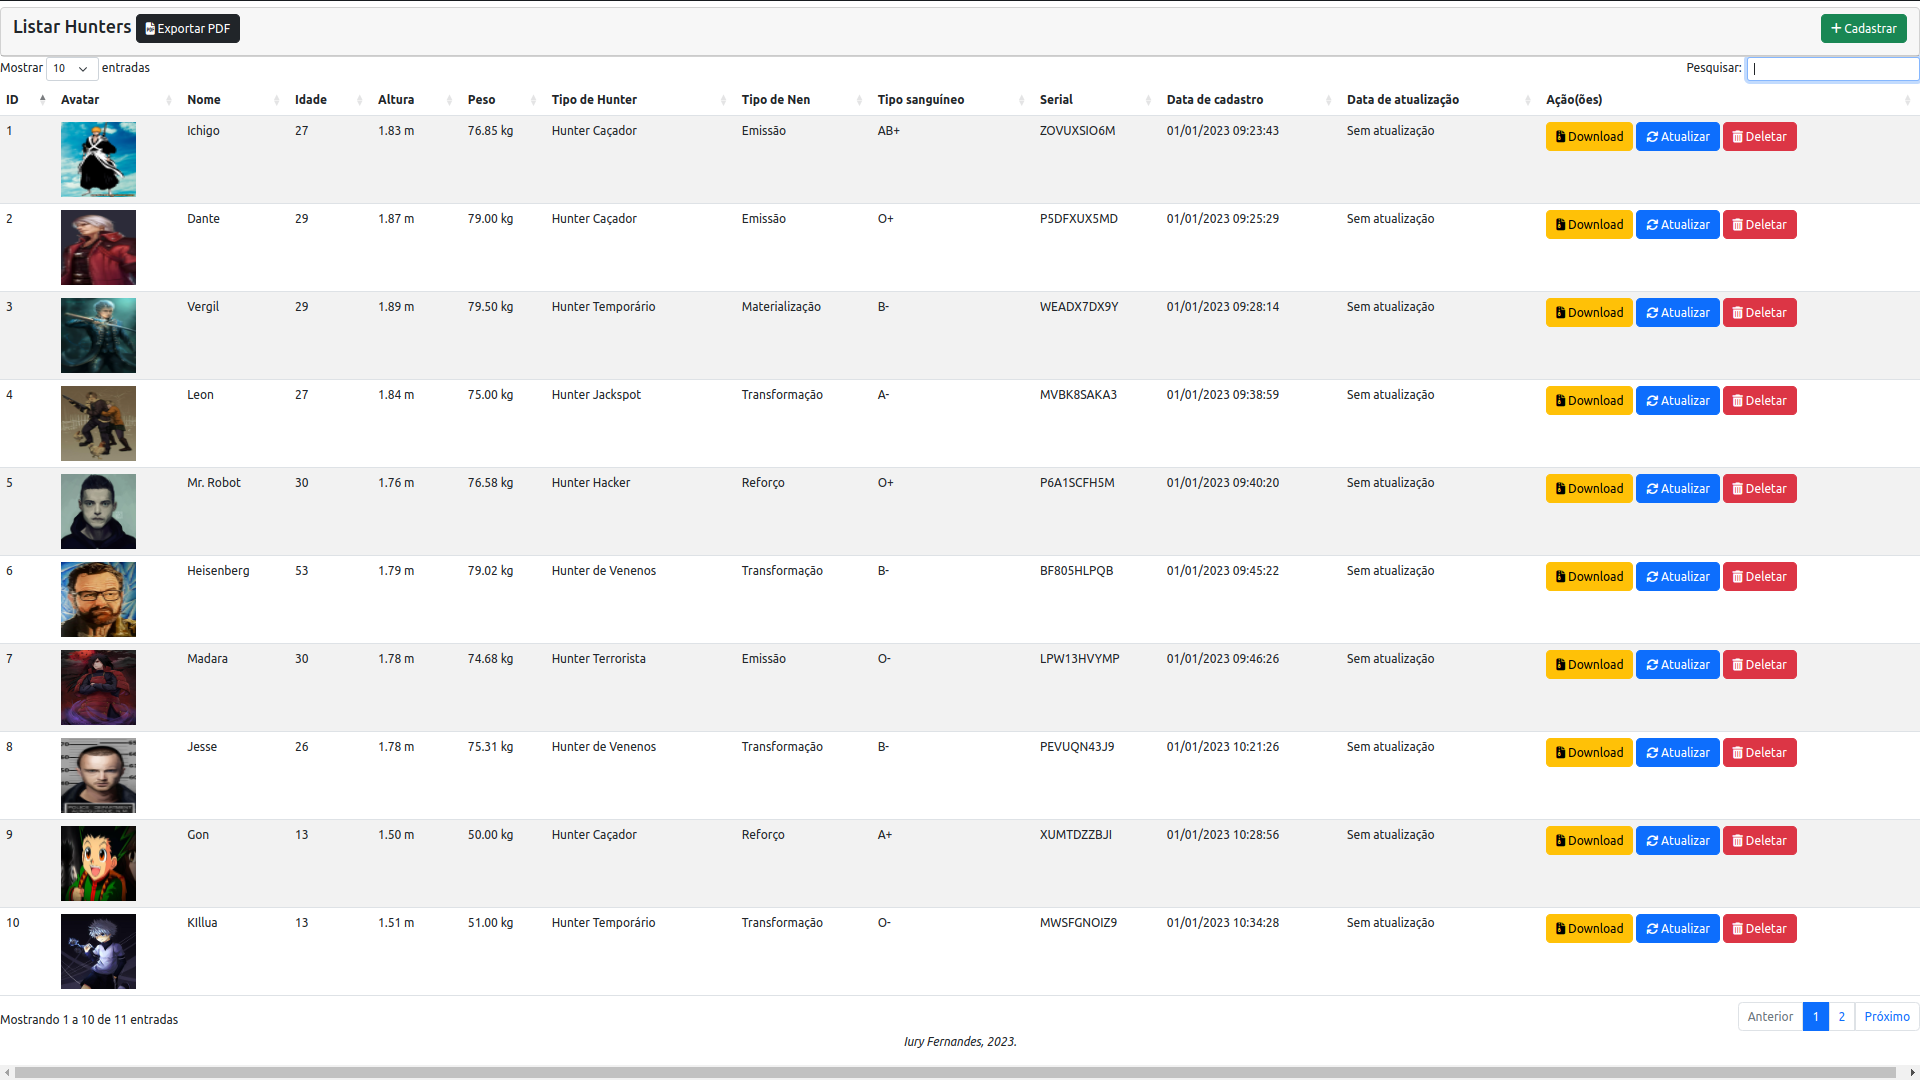
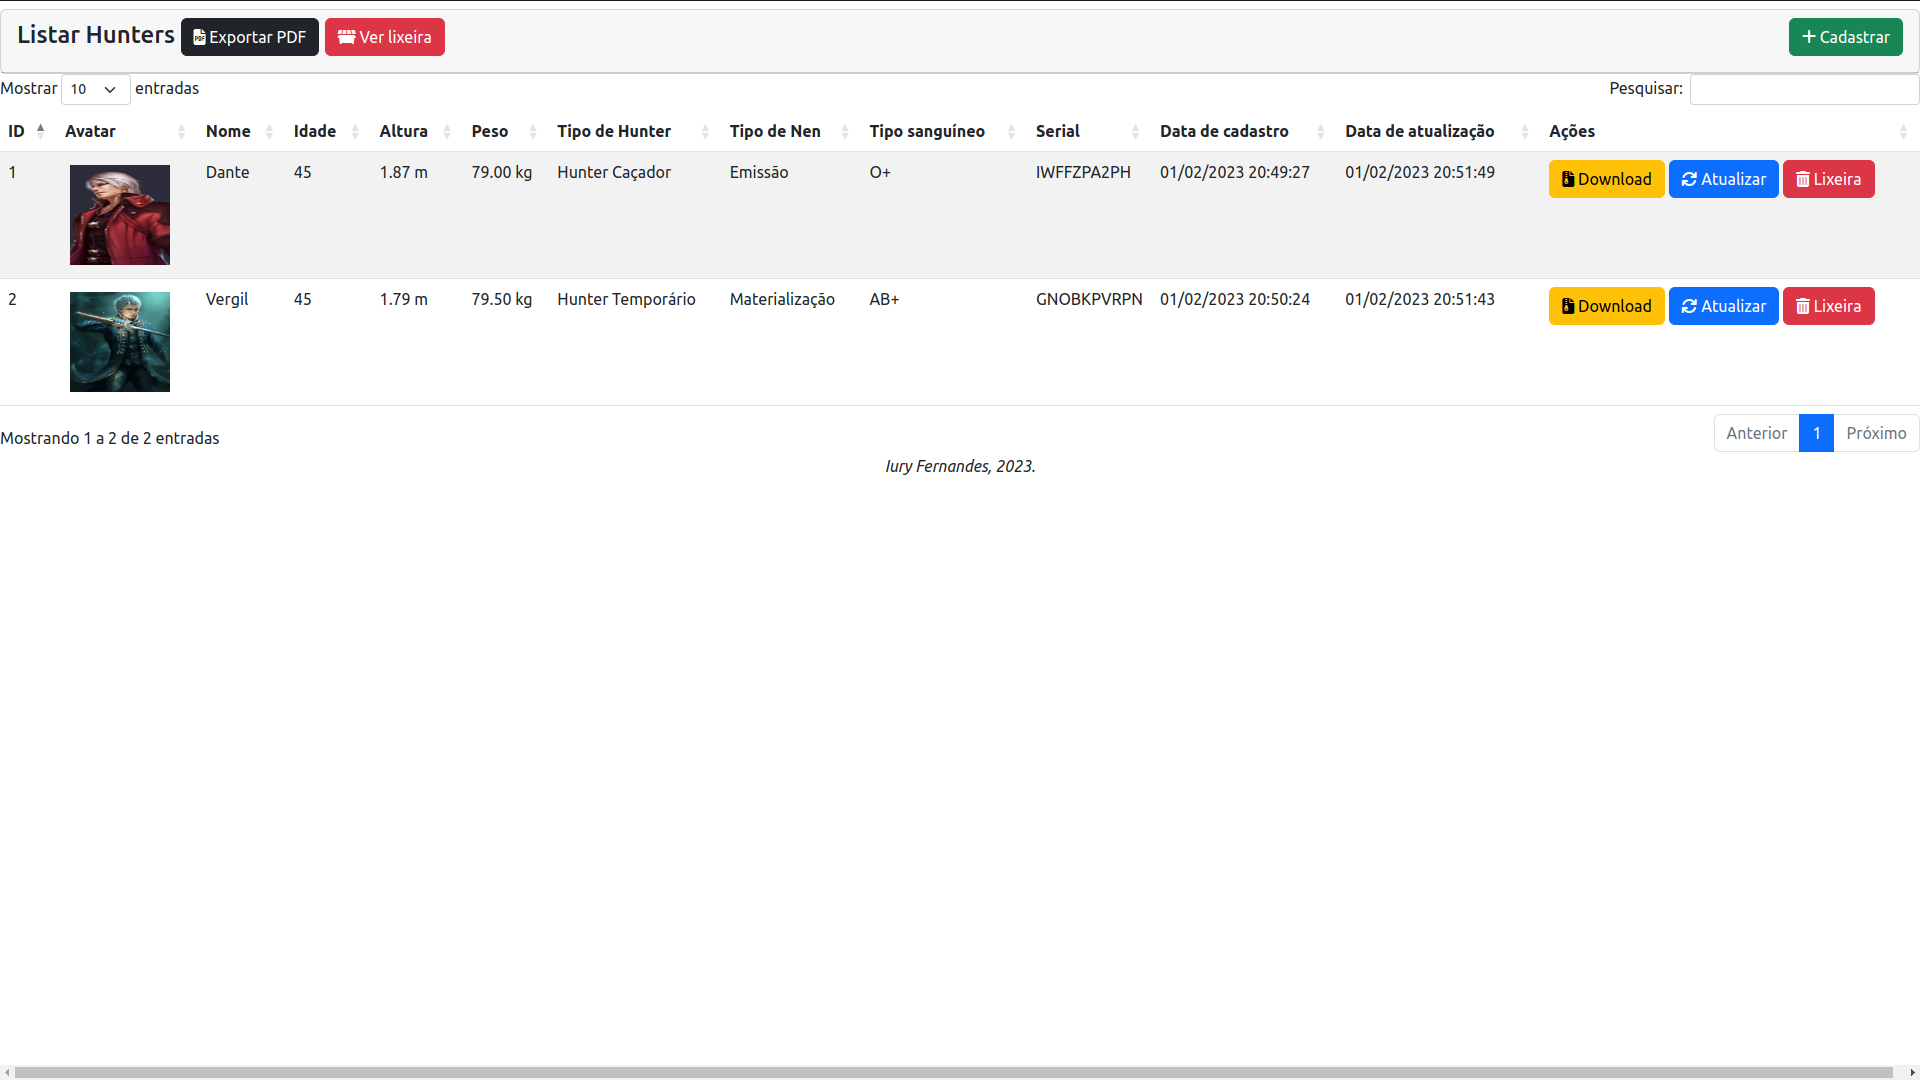
Others changings

diff --git a/app/Http/Controllers/HunterController.php b/app/Http/Controllers/HunterController.php
@@ -59,7 +59,7 @@ class HunterController extends Controller
             $registro->imagem_hunter = implode(',', $imagens_paths);
             $registro->save();
         } else {
-            dd("Não foi possível inserir as imagens de {$validacoes['nome_hunter']}, refaça a operação.");
+            dd("Não foi possível inserir a(s) imagem(ns) de {$validacoes['nome_hunter']}, refaça a operação.");
         }
         return redirect('/')->with('success_store',"{$validacoes['nome_hunter']} está presente no sistema.");
     }
@@ -115,7 +115,7 @@ class HunterController extends Controller
             if(!empty($imagens_paths)) {
                 HunterModel::where('id', $decriptado_id)->update(['imagem_hunter' => implode(',', $imagens_paths)]);
             } else {
-                dd("Não foi possível atualizar as imagens de {$validacoes['nome_hunter']}, refaça a operação.");
+                dd("Não foi possível atualizar a(s) imagem(ns) de {$validacoes['nome_hunter']}, refaça a operação.");
             }
         }
         return redirect('/')->with('success_update',"{$validacoes['nome_hunter']} obteve atualização em suas informações.");
@@ -141,7 +141,7 @@ class HunterController extends Controller
         }
         Storage::deleteDirectory("avatars/$decriptado_id");
         HunterModel::where('id', $decriptado_id)->delete();
-        return redirect('/')->with('success_destroy',"$nome está agora na lixeira.");
+        return redirect('/')->with('success_destroy',"$nome agora está na lixeira.");
     }
 
     public function trashRegister()
@@ -205,7 +205,25 @@ class HunterController extends Controller
             }
             $zip_archive->close();
         } else {
-            dd("Não foi possível realizar a zipagem do avatar de $nome_hunter.");
+            dd("Não foi possível realizar a zipagem da(s) imagem(ns) de $nome_hunter.");
+        }
+        return response()->download(storage_path($name_zip))->deleteFileAfterSend(true);
+    }
+
+    public function downloadZipRegisterTrash($id)
+    {
+        $zip_archive = new ZipArchive();
+        $nome_hunter = DB::table('hunters')->where('id','=', Crypt::decrypt($id))->value('nome_hunter');
+        $name_zip = "Hunter $nome_hunter (at trashed)".'.zip';
+        if ($zip_archive->open(storage_path($name_zip), ZipArchive::CREATE) == TRUE){
+            $files = File::files(storage_path('app/trashed/avatars/'.Crypt::decrypt($id)));
+            foreach($files as $key => $value){
+                $name_file = basename($value);
+                $zip_archive->addFile($value, $name_file);
+            }
+            $zip_archive->close();
+        } else {
+            dd("Não foi possível realizar a zipagem da(s) imagem(ns) de $nome_hunter.");
         }
         return response()->download(storage_path($name_zip))->deleteFileAfterSend(true);
     }

diff --git a/resources/views/index.blade.php b/resources/views/index.blade.php
@@ -59,7 +59,7 @@
                                     {{ $hxh->data_atualizacao == $hxh->data_cadastro ? 'Sem atualização' : \Carbon\Carbon::parse($hxh->data_atualizacao)->format('d/m/Y H:i:s')}}</td>
                                     <td>
                                         <form action="{{ url("delete/".encrypt($hxh->id)) }}" method="POST">
-                                            <a href="{{ url("download_zip/".encrypt($hxh->id)) }}" class="btn btn-warning" title="Donwload imagem de {{ $hxh->nome_hunter }}"><i class="fa fa-file-zipper"></i>&nbsp;Download</a>
+                                            <a href="{{ url("download_zip/".encrypt($hxh->id)) }}" class="btn btn-warning" title="Donwload imagem(ns) de {{ $hxh->nome_hunter }}"><i class="fa fa-file-zipper"></i>&nbsp;Download</a>
                                             <a href="{{ url("update/".encrypt($hxh->id)) }}" class="btn btn-primary" title="Atualizar {{ $hxh->nome_hunter }}"><i class="fa fa-arrows-rotate"></i>&nbsp;Atualizar</a>
                                             {{ ' ' }} {{ method_field('DELETE') }} {{ csrf_field() }}
                                             <button type="submit" class="btn btn-danger" title="Deletar {{ $hxh->nome_hunter }}"><i class="fa fa-trash"></i>&nbsp;Lixeira</button>

diff --git a/resources/views/trash.blade.php b/resources/views/trash.blade.php
@@ -54,6 +54,7 @@
                                     <td title="{{ \Carbon\Carbon::parse($hxh->deleted_at)->format('d/m/Y H:i:s')}}">{{ \Carbon\Carbon::parse($hxh->deleted_at)->format('d/m/Y H:i:s')}}</td>
                                     <td>
                                         <form action="{{ url("delete_register/".encrypt($hxh->id)) }}" method="POST">
+                                            <a href="{{ url("download_zip/".encrypt($hxh->id)) }}" class="btn btn-warning" title="Donwload imagem(ns) de {{ $hxh->nome_hunter }}"><i class="fa fa-file-zipper"></i>&nbsp;Download</a>
                                             <a href="{{ url("restore_register/".encrypt($hxh->id)) }}" class="btn btn-primary" title="Restaurar {{ $hxh->nome_hunter }}"><i class="fa fa-arrows-rotate"></i>&nbsp;Restaurar</a>
                                             {{ ' ' }} {{ method_field('DELETE') }} {{ csrf_field() }}
                                             <button type="submit" class="btn btn-danger" title="Deletar {{ $hxh->nome_hunter }}"><i class="fa fa-trash"></i>&nbsp;Deletar</button>

diff --git a/routes/web.php b/routes/web.php
@@ -32,6 +32,7 @@ Route::controller(HunterController::class)->group(function() {
     Route::delete('/delete_register/{id}', 'destroyRegisterTrash');
     Route::get('/export_pdf','exportPDF');
     Route::get('download_zip/{id}', 'downloadZip');
+    Route::get('download_zip/{id}', 'downloadZipRegisterTrash');
 });
 
 Route::fallback(FallbackController::class);

diff --git a/README.md b/README.md
@@ -16,13 +16,16 @@ Funcionalidade | Status
 Cadastrar Hunter | Funcionando
 Listagem de Hunters cadastrados | Funcionando
 Atualizar determinado Hunter | Funcionando
-Excluir determinado Hunter | Funcionando
+Enviar para a lixeira determinado Hunter | Funcionando
 Validações de formulário | Funcionando
 Filtragem de Hunter(s) | Funcionando
 Alertas de ações feitas | Funcionando
 Exportação de dados para PDF | Funcionando
-Download zipado da(s) foto(s) do Hunter | Funcionando
+Download zipado da(s) foto(s) do Hunter (Na tabela principal e na lixeira) | Funcionando
 Fallback route | Funcionando
+Listar de registros apagados (lixeira) | Funcionando
+Restaurar registro apagado | Funcionando
+Excluir permanentemente determinado registro apagado | Funcionando
 
 <h1 align="center"> Listagem de Hunters </h1>
 
@@ -35,6 +38,10 @@ Fallback route | Funcionando
 <h1 align="center"> Atualização de Hunter </h1>
 
 ![](https://github.com/Iury189/l9xl9/blob/main/public/imagens/Atualizacao.png?raw=true)
+
+<h1 align="center"> Trash (Lixeira de registros) </h1>
+
+![](https://github.com/Iury189/l9xl9/blob/main/public/imagens/Trashed.png?raw=true)
 
 <h1 align="center"> Fallback (Substituindo 404 Not Found) </h1>
 
